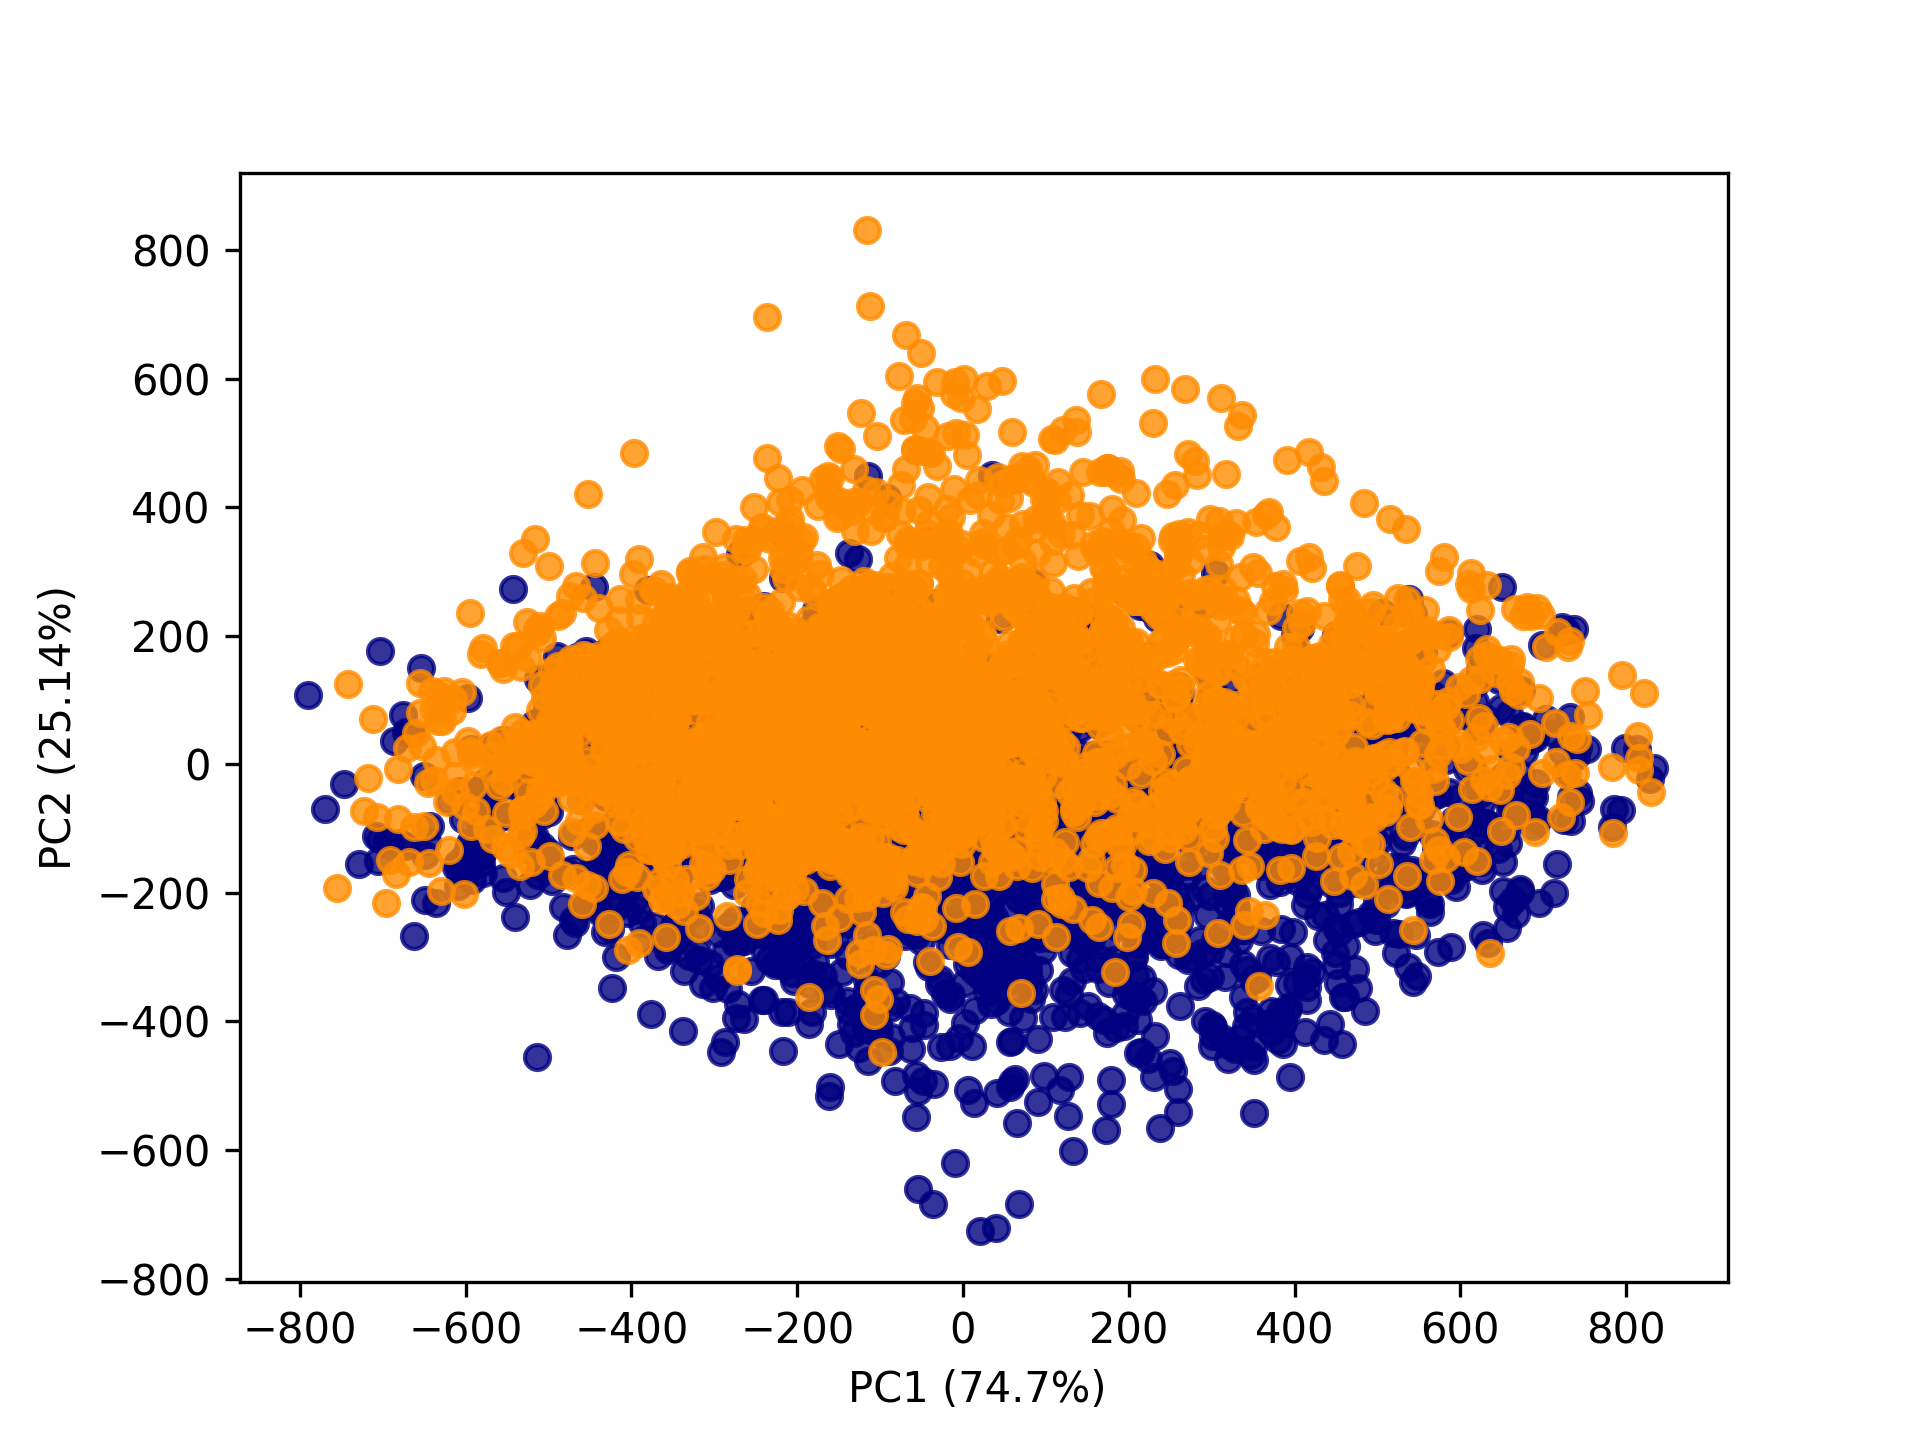
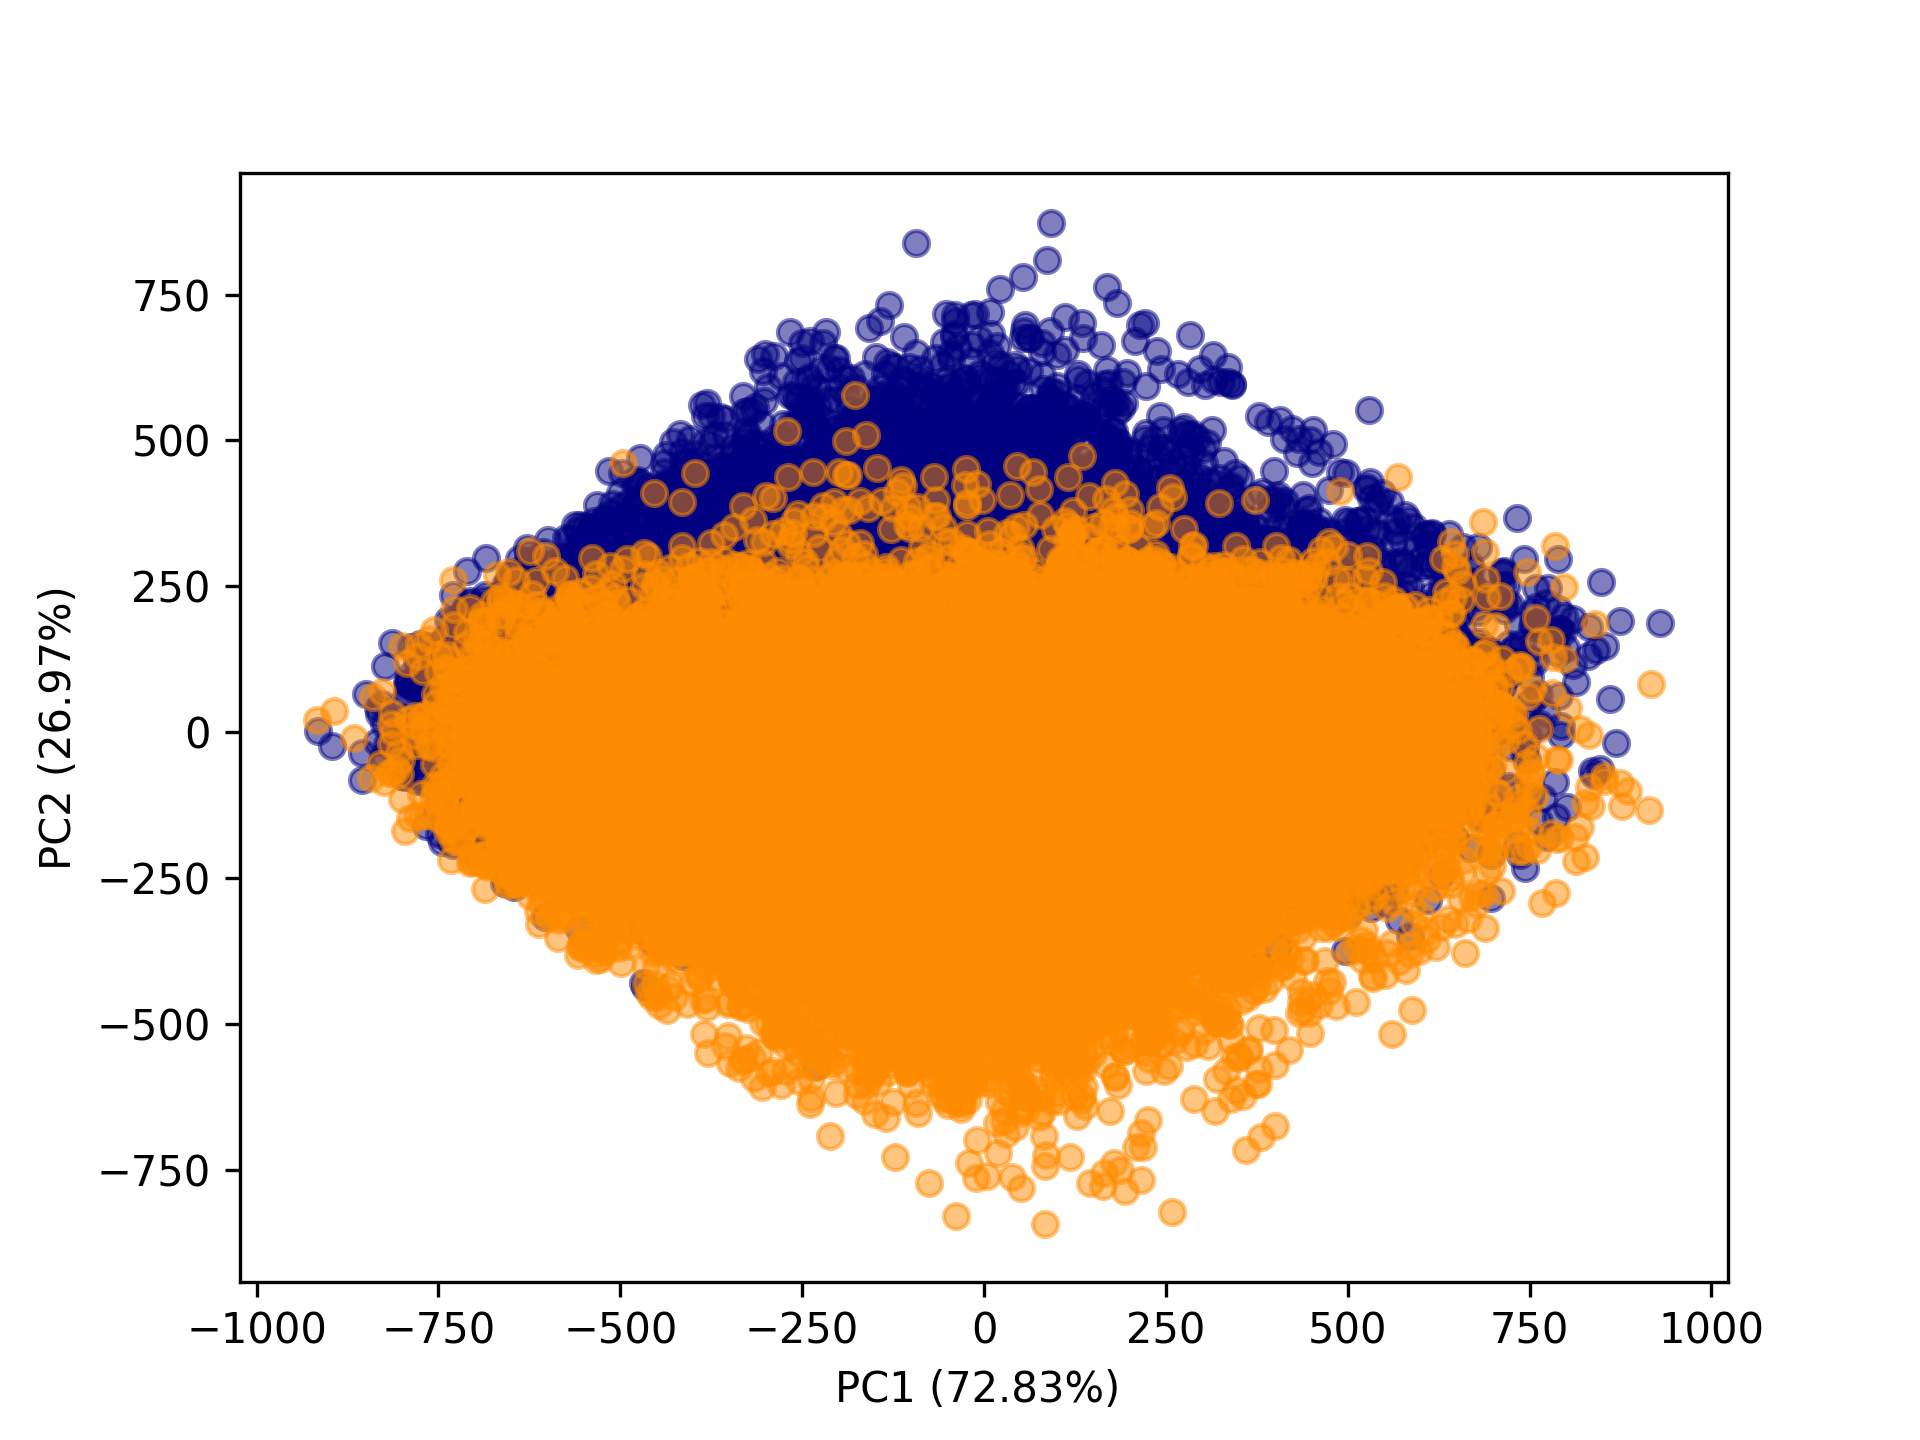
Update PCA code.

diff --git a/pca.py b/pca.py
@@ -8,7 +8,7 @@ def main():
     """
     Main entry point.
     """
-    filename = "data_matrices/DataMatrices/4_seasons/2014-2017dataMatrix.csv"
+    filename = "data_matrices/DataMatrices/4_seasons/4_seasons_combined.csv"
     df = pd.read_csv(filename)
     df = remove_init_rows(df)
     df = drop_irrelevant_columns(df)
@@ -20,7 +20,7 @@ def main():
     print()
 
     for i, color in zip([0, 1], ["navy", "darkorange"]):
-        plt.scatter(projected[labels == i, 0], projected[labels == i, 1], alpha=0.8, color=color)
+        plt.scatter(projected[labels == i, 0], projected[labels == i, 1], alpha=0.5, color=color)
 
     plt.xlabel("PC1 ({:.4}%) ".format(pca.explained_variance_ratio_[0] * 100))
     plt.ylabel("PC2 ({:.4}%)".format(pca.explained_variance_ratio_[1] * 100))
